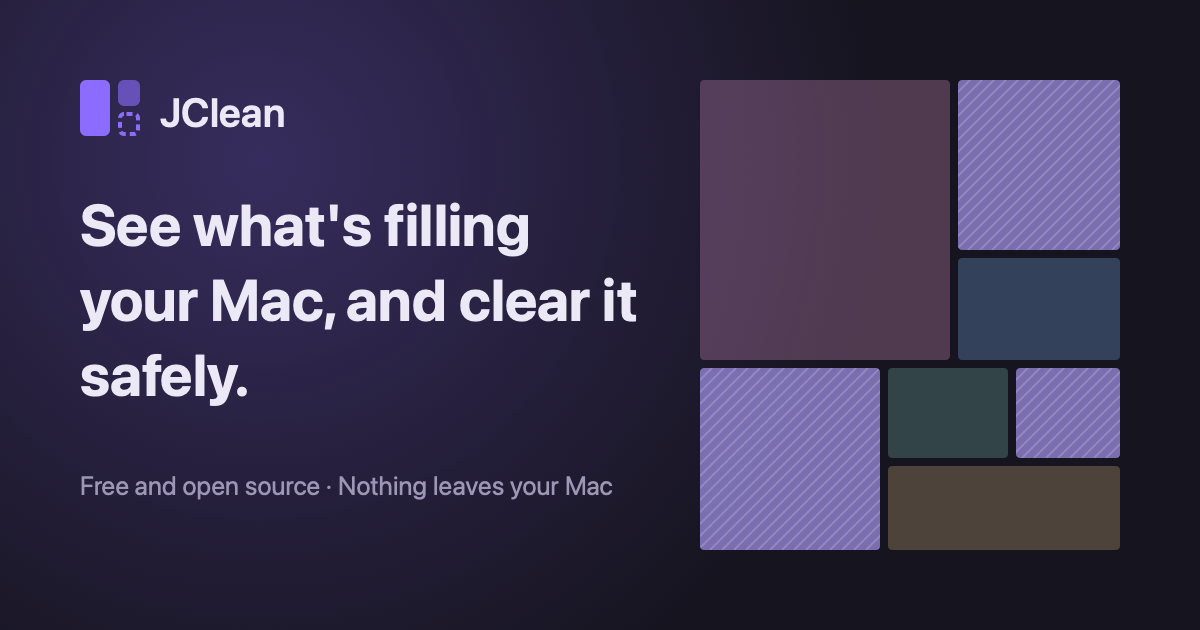
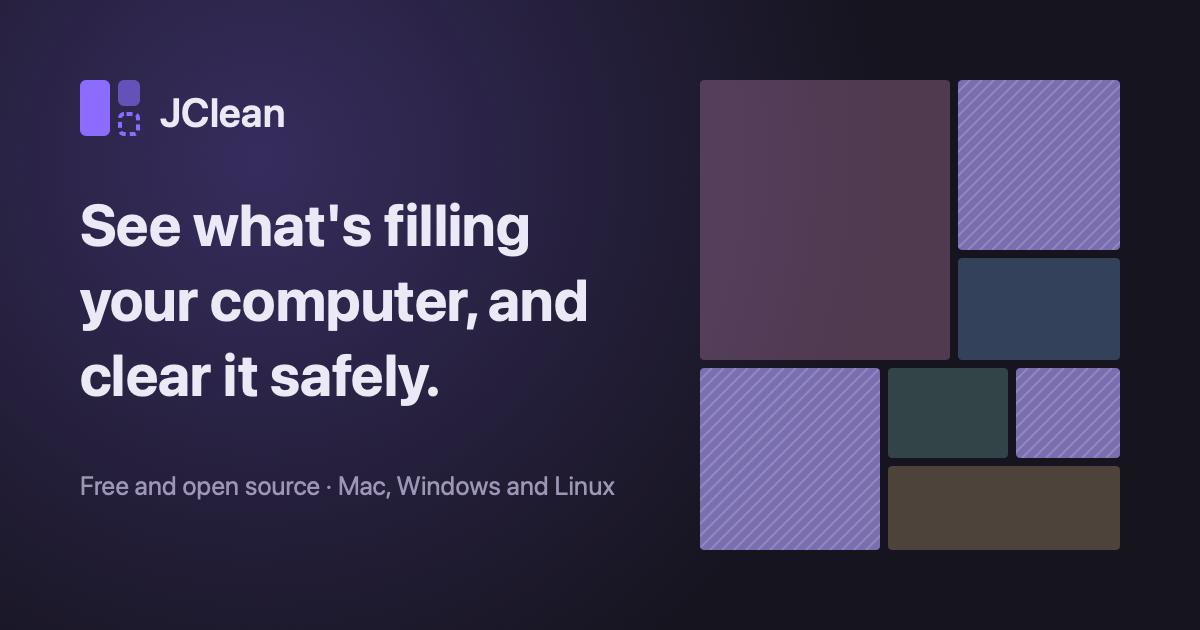
feat(web): say Mac, Windows and Linux everywhere, not just Mac
The hero reads "for Mac, Windows and Linux" and "filling your computer"
whatever the latest release holds, as do the page title, description and
the social preview image. What it finds now covers IDEs and SDKs on every
system and system leftovers (Windows Update, apt/dnf, logs, snaps, Time
Machine), and the Safety page lists what's protected on each system.

Changed region(s): [[0.1542, 0.4222, 0.555, 0.5127], [0.0617, 0.5429, 0.37, 0.6635], [0.2775, 0.754, 0.5242, 0.7841]]

diff --git a/apps/web/src/components/HeroMap.tsx b/apps/web/src/components/HeroMap.tsx
@@ -2,7 +2,7 @@ import { Treemap, type TreemapCell } from "@jclean/treemap";
 import { animate, useReducedMotion } from "motion/react";
 import { useEffect, useLayoutEffect, useRef, useState } from "react";
 
-// A sample Mac's storage (spec §12.2): the same treemap as the app, filling
+// A sample computer's storage (spec §12.2): the same treemap as the app, filling
 // in, lighting up what can be freed, then collapsing as the figure counts up,
 // over and over.
 interface Sample {
@@ -145,7 +145,7 @@ export function HeroMap() {
   return (
     <figure
       className="relative overflow-hidden rounded-card border border-line bg-surface p-3 shadow-2xl"
-      aria-label="A sample Mac's storage in JClean"
+      aria-label="A sample computer's storage in JClean"
     >
       <div className="relative mb-3 flex h-7 items-center px-1">
         <span className="flex gap-1.5" aria-hidden="true">
